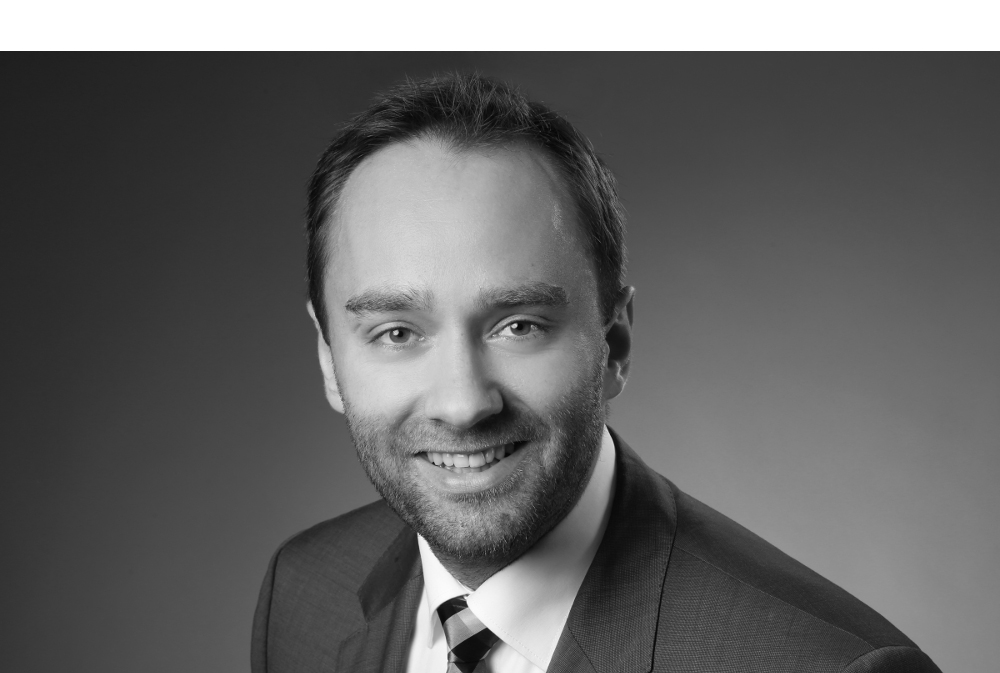
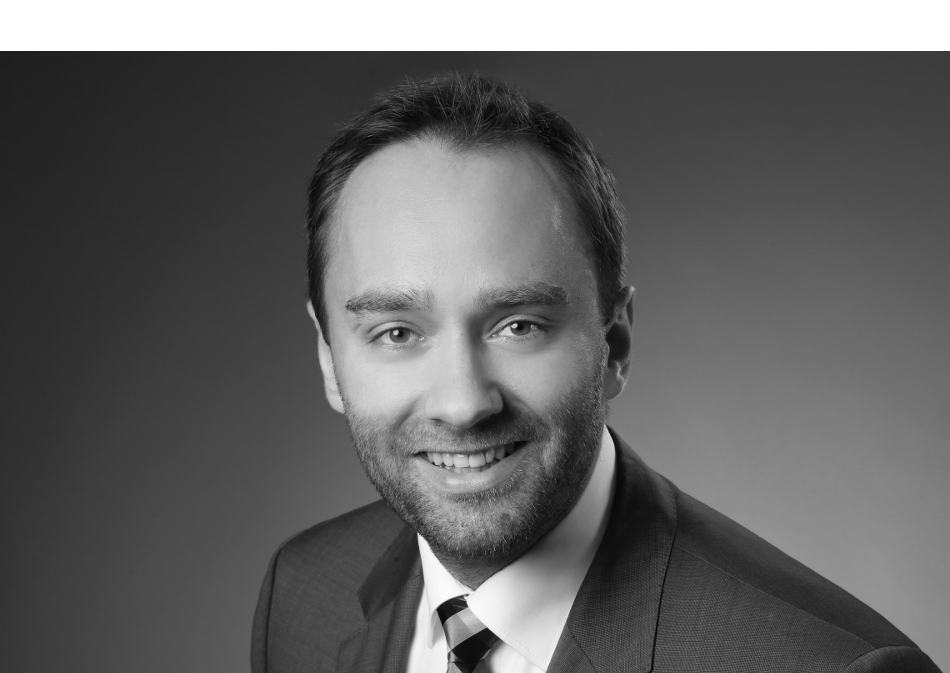
change: navigation fixed to top
- shortened the width of the pic

Changed region(s): [[0.2442, 0.1248, 1.0, 1.0], [0.7632, 0.9673, 0.8242, 0.9985], [0.7326, 0.9361, 0.7632, 0.9673]]

diff --git a/src/main/webapp/app/shared/navigation/navigationDirectiveView.html b/src/main/webapp/app/shared/navigation/navigationDirectiveView.html
@@ -1,4 +1,4 @@
-<div class="navbar navbar-default" role="navigation">
+<div class="navbar navbar-default navbar-fixed-top" role="navigation">
   <div class="container" ng-controller="navigationController">
     <div class="navbar-header">
       <button type="button" class="navbar-toggle" data-toggle="collapse" data-target=".navbar-collapse">

diff --git a/src/main/webapp/assets/css/app.css b/src/main/webapp/assets/css/app.css
@@ -268,6 +268,9 @@ timeline {
   background-color: grey;
 }
 
+.navbar-fixed-top {
+  position: absolute;
+}
 /* Gallery */
 .gallery {
 	margin-top: 30px;
